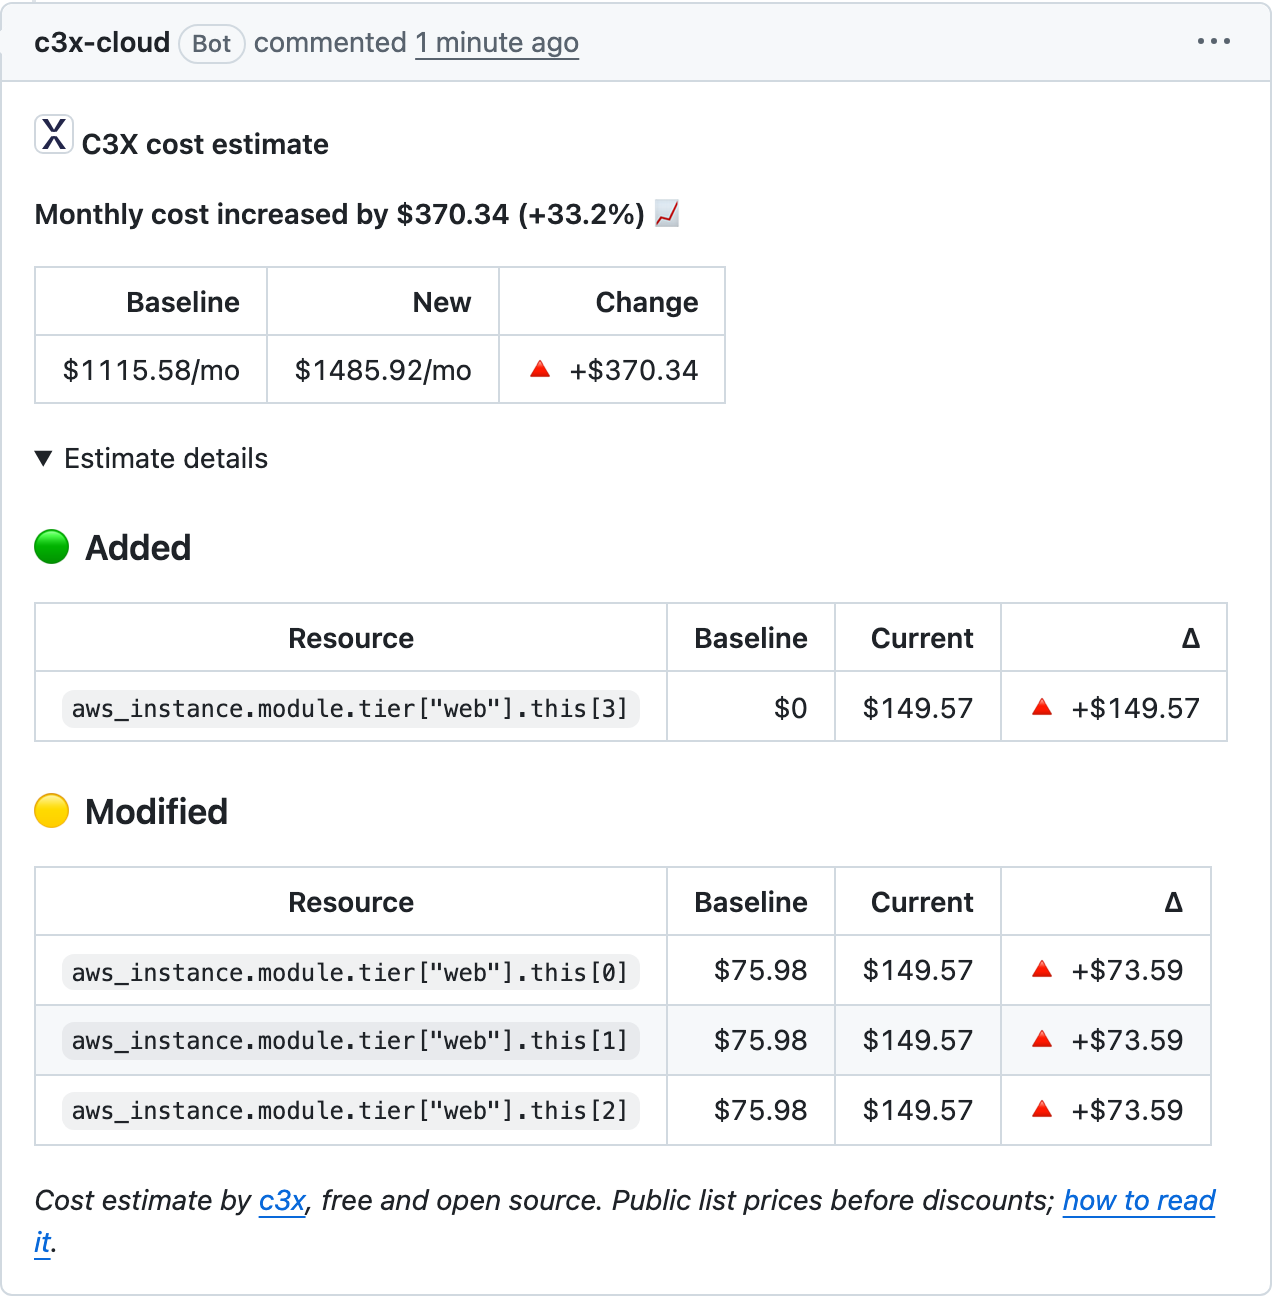
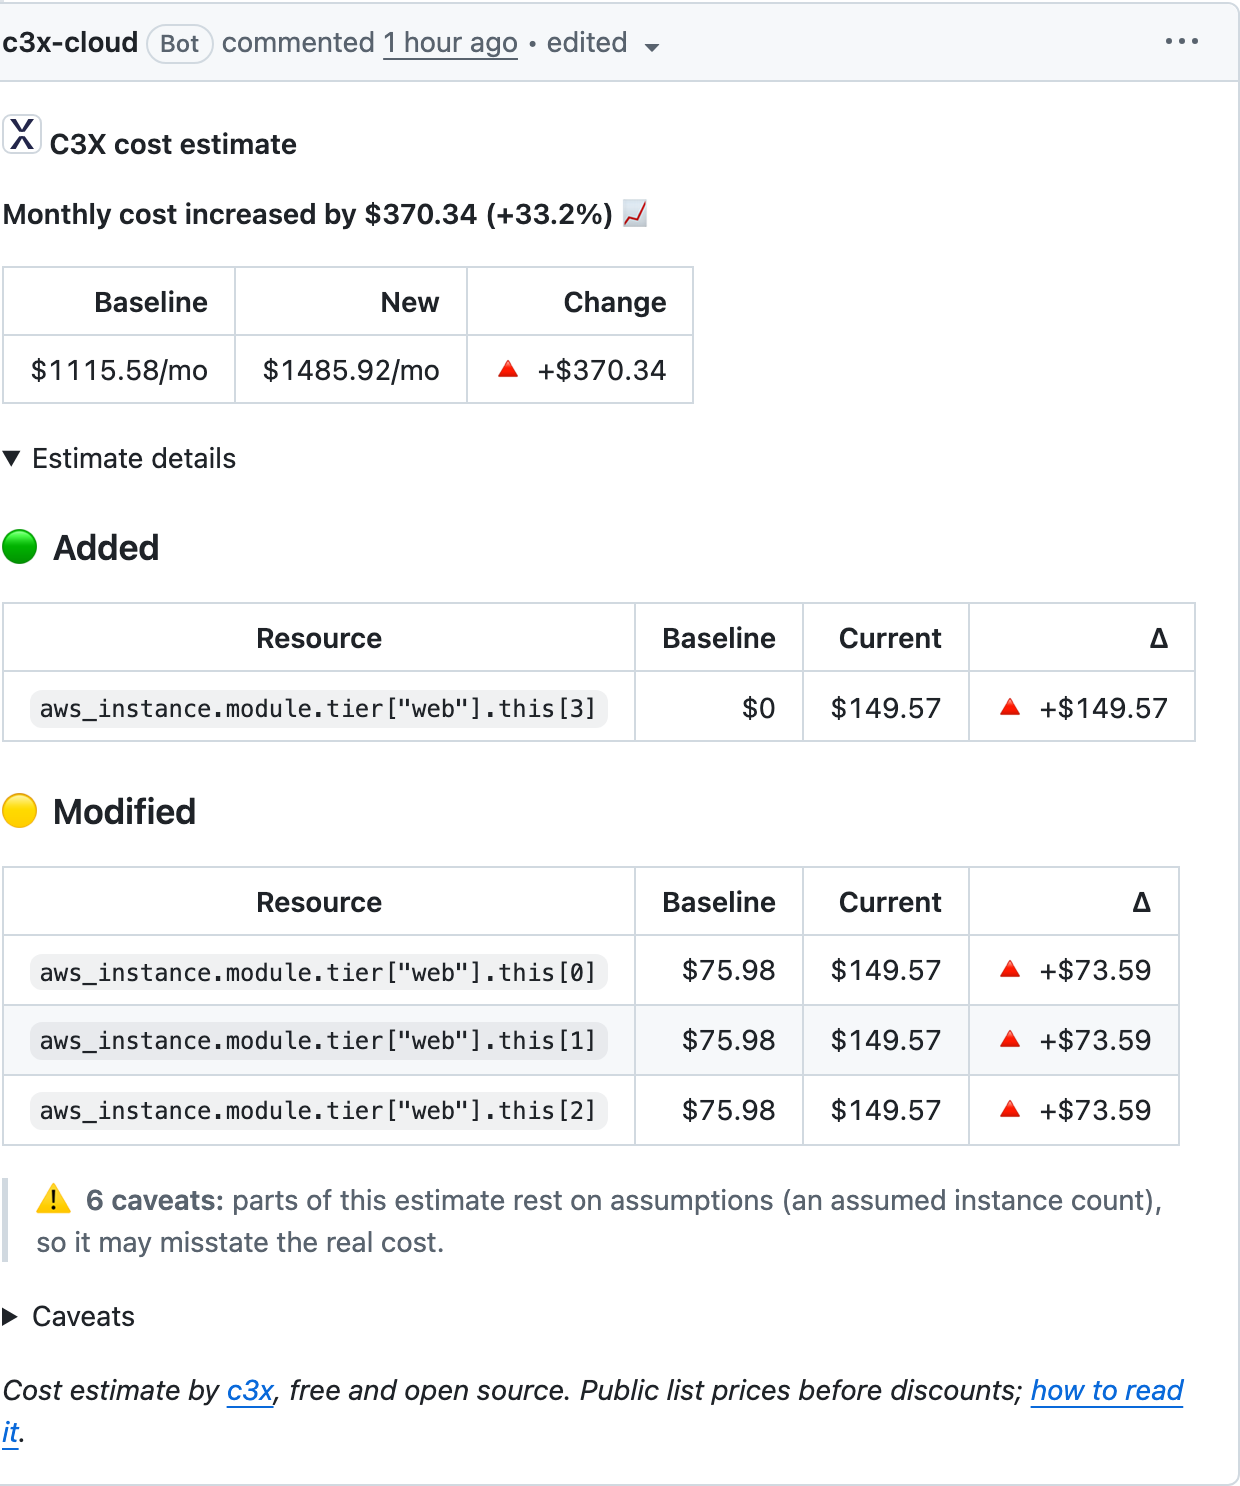
GCP is priced regionally; refresh the comment screenshot
The pricing API now serves region-aware Cloud SQL prices, so the gcp scenario has no caveats. The screenshot shows the current branded comment with its caveat summary.

diff --git a/README.md b/README.md
@@ -21,7 +21,7 @@ real pull requests.
 <p align="center">
   <a href="https://github.com/c3xdev/c3x-demo/pull/11">
     <img src="docs/pr-comment.png" width="640"
-         alt="c3x-cloud bot comment on a pull request: monthly cost increased by $370.34 (+33.2%), from $1115.58/mo to $1485.92/mo, with a per-resource breakdown of the added and resized EC2 instances">
+         alt="c3x-cloud bot comment on a pull request: monthly cost increased by $370.34 (+33.2%), from $1115.58/mo to $1485.92/mo, with a per-resource breakdown of the added and resized EC2 instances and a caveat note for the assumed NAT gateway count">
   </a>
 </p>
 
@@ -35,7 +35,7 @@ scenario and gets a cost comment from **c3x-cloud[bot]**.
 | [#11 Scale the web tier for launch](https://github.com/c3xdev/c3x-demo/pull/11) | aws | +$370.34/mo | An increase that passes the $500/mo `budget-delta` gate; added vs resized instances |
 | [#12 Rightsize the database](https://github.com/c3xdev/c3x-demo/pull/12) | azure | −$368.18/mo | A cost decrease, priced in the resource group's region (`westeurope`) |
 | [#13 Add a GPU training cluster](https://github.com/c3xdev/c3x-demo/pull/13) | aws | +$2,781.48/mo | ❌ The check **fails** on `budget-delta`, after the comment is posted |
-| [#14 Scale Cloud Run and GKE for the holiday peak](https://github.com/c3xdev/c3x-demo/pull/14) | gcp | +$390.80/mo | Cloud Run minimum instances, GKE node pool, ⚠ caveats listed in the comment |
+| [#14 Scale Cloud Run and GKE for the holiday peak](https://github.com/c3xdev/c3x-demo/pull/14) | gcp | +$390.80/mo | Cloud Run minimum instances and a GKE node pool, priced in `europe-west1` |
 | [#15 Expand the edge API to Singapore](https://github.com/c3xdev/c3x-demo/pull/15) | opentofu | +$345.71/mo | OpenTofu provider `for_each`: a new region priced at its own rates |
 
 ## Add c3x to your repo in 60 seconds
@@ -94,18 +94,15 @@ prices, in USD unless noted.
 |---|---|---|---:|
 | [`aws/`](aws) | VPC over 3 AZs, NAT gateway per AZ, ALB, EC2 tiers, RDS PostgreSQL Multi-AZ, S3, Lambda | module `for_each`, `count` from `data.aws_availability_zones`, `dynamic` blocks, usage file, `.c3x.toml` budget, `budget-delta` gate | $1,115.58 ⚠ |
 | [`azure/`](azure) | AKS (Standard tier), Azure SQL `GP_Gen5_4`, GRS storage, Linux VM | location inherited from the resource group and priced in `westeurope` | $1,451.13 |
-| [`gcp/`](gcp) | Cloud Run with warm instances, Cloud SQL HA, GKE, Compute Engine | zone → region pricing (`europe-west1-b`), Cloud Run minimum instances, ⚠ caveats | $1,341.10 ⚠ |
+| [`gcp/`](gcp) | Cloud Run with warm instances, Cloud SQL HA, GKE, Compute Engine | zone → region pricing (`europe-west1-b`), Cloud Run minimum instances, regional Cloud SQL | $1,341.10 |
 | [`opentofu/`](opentofu) | EC2 + ElastiCache in two regions, `.tofu` files | OpenTofu provider `for_each`, per-region prices | $597.59 |
 | [`cloudformation/`](cloudformation) | EC2, RDS PostgreSQL, S3 | CloudFormation templates, `strict: true` | $362.79 |
 
 ⚠ marks estimates where c3x says what it had to assume, on the line itself
-and in the PR comment, rather than presenting a guess as fact:
-
-- **aws**: the NAT gateways (one per availability zone) assume three zones,
-  because `data.aws_availability_zones` needs AWS credentials to read. A
-  plan JSON has the real list. See [aws/](aws).
-- **gcp**: c3x has no European Cloud SQL price yet, so it quotes the
-  `us-central1` rate and flags those lines. See [gcp/](gcp).
+and in the PR comment, rather than presenting a guess as fact. In **aws**,
+the NAT gateways (one per availability zone) assume three zones, because
+`data.aws_availability_zones` needs AWS credentials to read; a plan JSON has
+the real list. See [aws/](aws).
 
 ## Run it locally
 

diff --git a/gcp/README.md b/gcp/README.md
@@ -11,12 +11,8 @@
 $ c3x estimate --path gcp
 ...
 PROJECT TOTAL: $1341.1/mo
-
-⚠ 3 caveats (marked above): parts of this total rest on assumptions,
-  so it may misstate the real cost. --strict fails the run when this happens.
 ```
 
-This scenario shows **caveats**. c3x has no European Cloud SQL price in
-its catalog yet, so it quotes the `us-central1` rate for the three Cloud SQL
-lines and marks each with ⚠ instead of hiding the gap. Run with `--strict`
-(or `strict: true` in the Action) to fail on any such assumption.
+Everything is priced in `europe-west1`, including Cloud SQL, whose price
+lookups use the region's own SKUs ("… in Belgium"), and the Compute Engine
+VM and GKE nodes, whose region comes from the zone.
